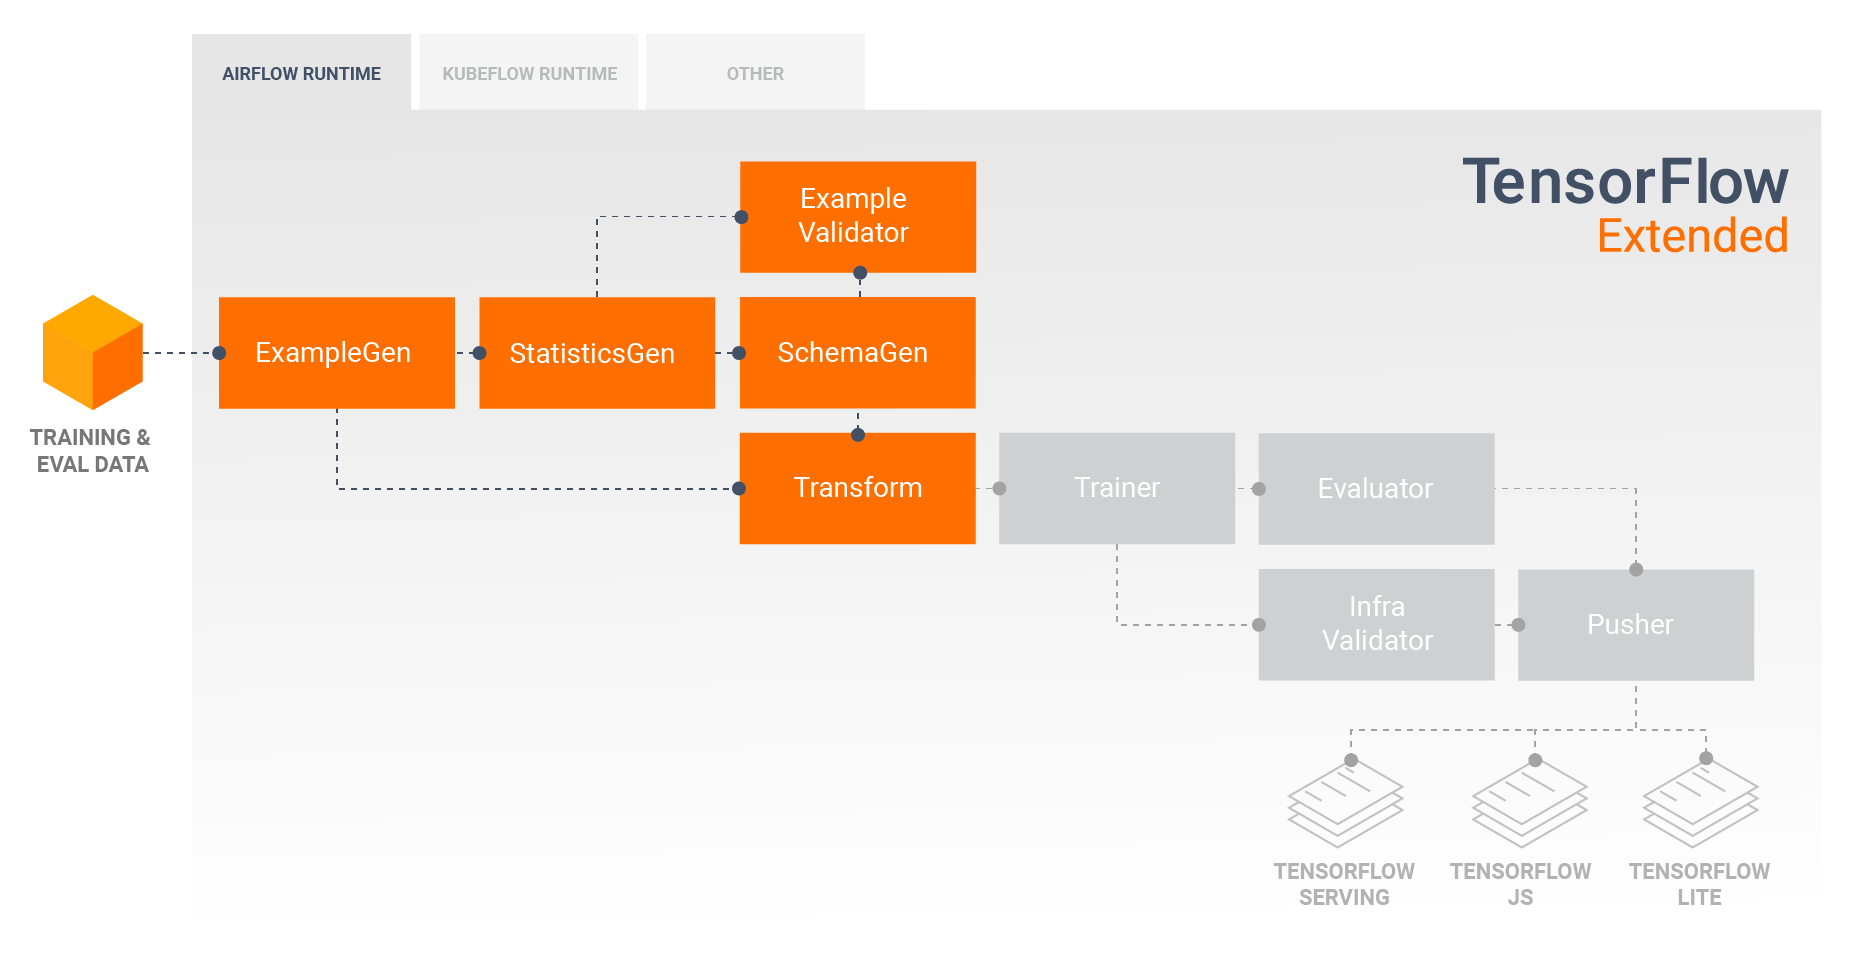
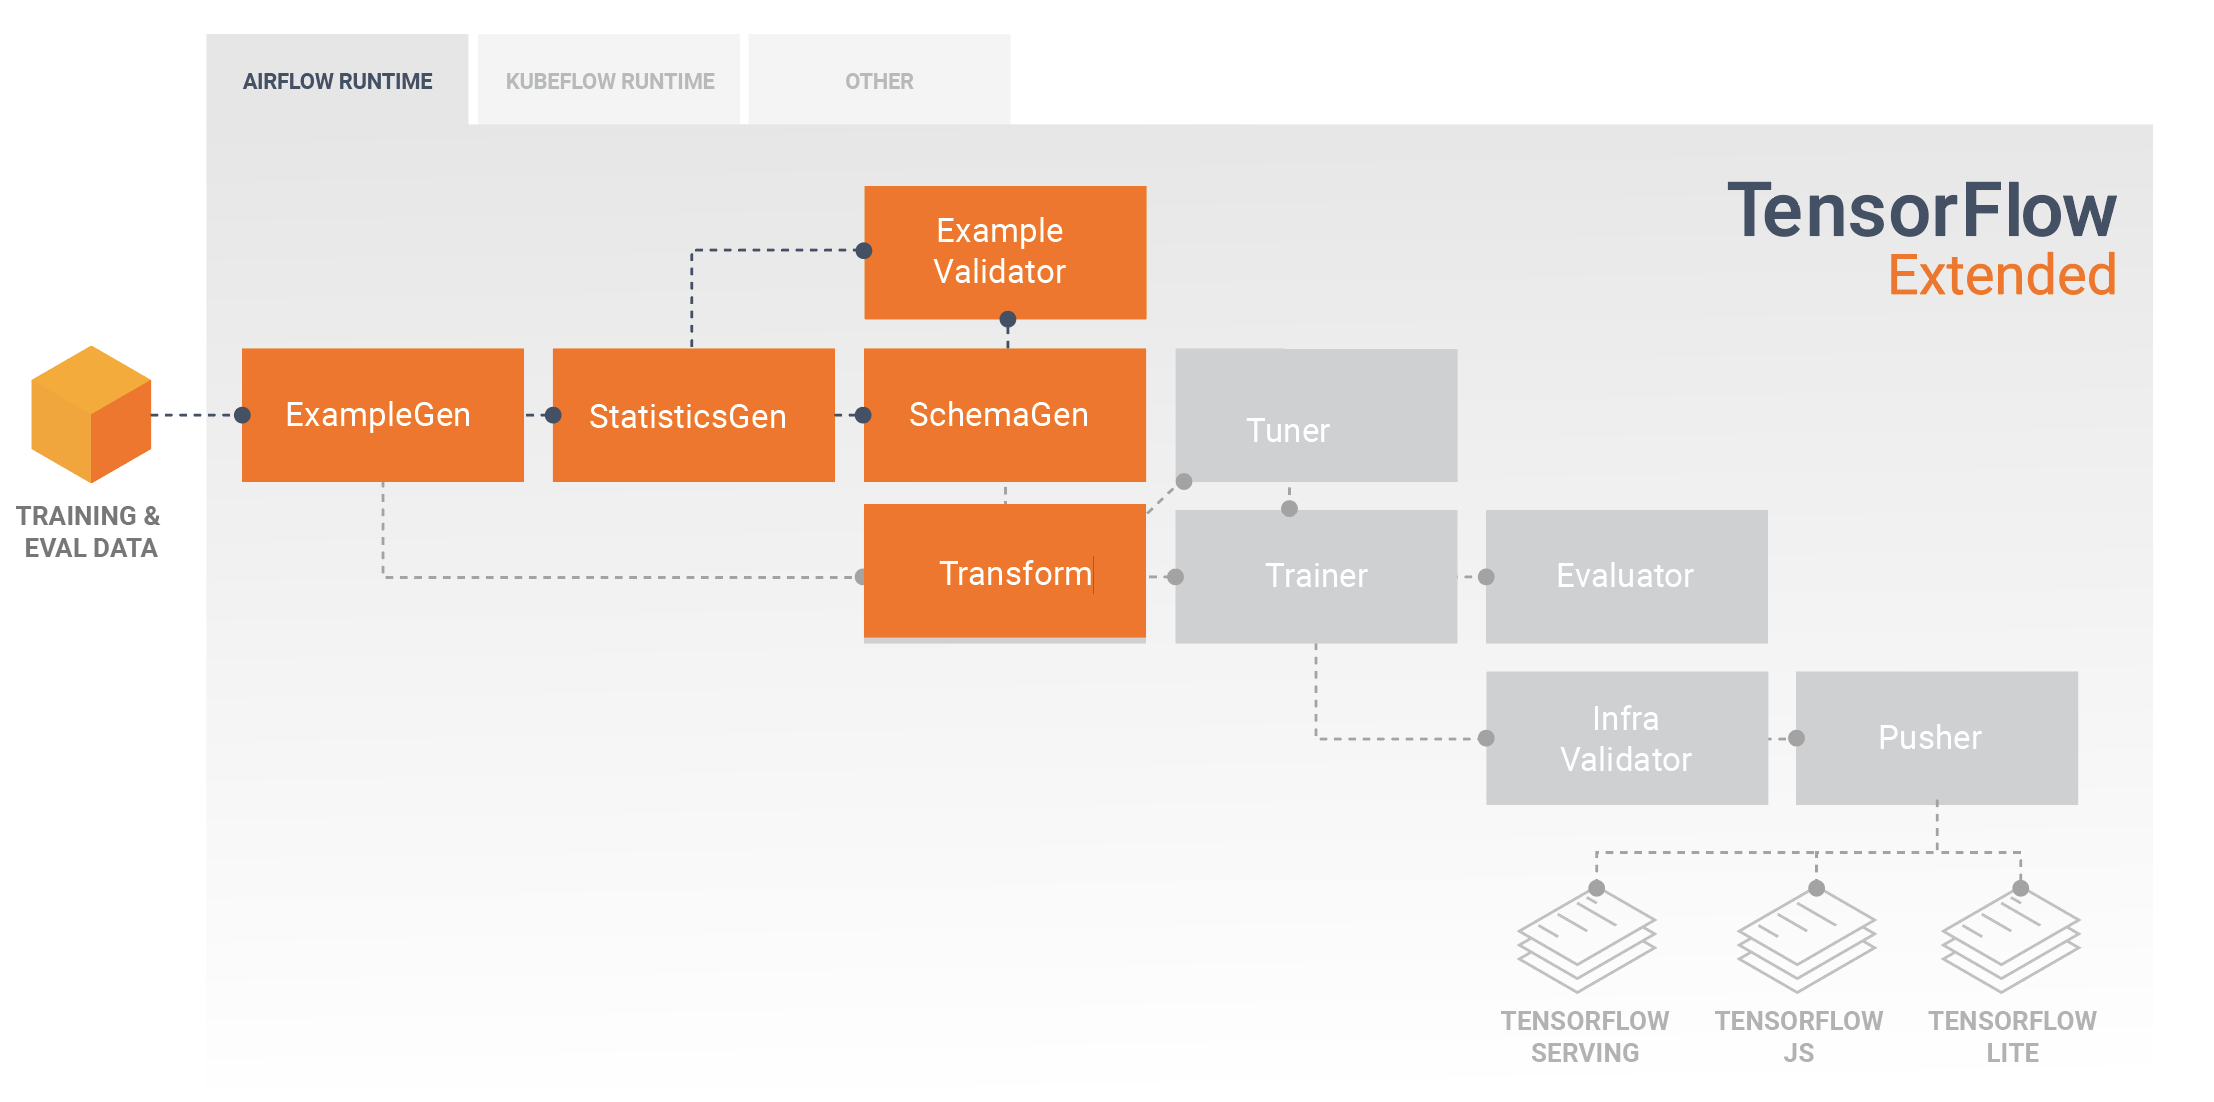
Added Tuner guide
PiperOrigin-RevId: 317187874

diff --git a/docs/guide/tuner.md b/docs/guide/tuner.md
@@ -1,0 +1,122 @@
+# The Tuner TFX Pipeline Component
+
+The Tuner component tunes the hyperparameters for the model.
+
+## Tuner Component and KerasTuner Library
+
+The Tuner component makes extensive use of the Python
+[KerasTuner](https://www.tensorflow.org/tutorials/keras/keras_tuner) API for
+tuning hyperparameters.
+
+Note: The KerasTuner library can be used for hyperparameter tuning regardless of
+the modeling API, not just for Keras models only.
+
+## Component
+
+Tuner takes:
+
+*   tf.Examples used for training and eval.
+*   A user provided module file (or module fn) that defines the tuning logic,
+    including model definition, hyperparameter search space, objective etc.
+*   [Protobuf](https://developers.google.com/protocol-buffers) definition of
+    train args and eval args.
+*   (Optional) [Protobuf](https://developers.google.com/protocol-buffers)
+    definition of tuning args.
+*   (Optional) transform graph produced by an upstream Transform component.
+*   (Optional) A data schema created by a SchemaGen pipeline component and
+    optionally altered by the developer.
+
+With the given data, model, and objective, Tuner tunes the hyperparameters and
+emits the best result.
+
+## Instructions
+
+A user module function `tuner_fn` with the following signature is required for
+Tuner:
+
+```python
+...
+from kerastuner.engine import base_tuner
+
+TunerFnResult = NamedTuple('TunerFnResult', [('tuner', base_tuner.BaseTuner),
+                                             ('fit_kwargs', Dict[Text, Any])])
+
+def tuner_fn(fn_args: FnArgs) -> TunerFnResult:
+  """Build the tuner using the KerasTuner API.
+  Args:
+    fn_args: Holds args as name/value pairs.
+      - working_dir: working dir for tuning.
+      - train_files: List of file paths containing training tf.Example data.
+      - eval_files: List of file paths containing eval tf.Example data.
+      - train_steps: number of train steps.
+      - eval_steps: number of eval steps.
+      - schema_path: optional schema of the input data.
+      - transform_graph_path: optional transform graph produced by TFT.
+  Returns:
+    A namedtuple contains the following:
+      - tuner: A BaseTuner that will be used for tuning.
+      - fit_kwargs: Args to pass to tuner's run_trial function for fitting the
+                    model , e.g., the training and validation dataset. Required
+                    args depend on the above tuner's implementation.
+  """
+  ...
+```
+
+In this function, you define both the model and hyperparameter search spaces,
+and choose the objective and algorithm for tuning. The Tuner component takes
+this module code as input, tunes the hyperparameters, and emits the best result.
+
+Trainer can take Tuner's output hyperparameters as input and utilize them in
+its user module code. The pipeline definition looks like this:
+
+```python
+...
+tuner = Tuner(
+    module_file=module_file,  # Contains `tuner_fn`.
+    examples=transform.outputs['transformed_examples'],
+    transform_graph=transform.outputs['transform_graph'],
+    train_args=trainer_pb2.TrainArgs(num_steps=20),
+    eval_args=trainer_pb2.EvalArgs(num_steps=5))
+
+trainer = Trainer(
+    module_file=module_file,  # Contains `run_fn`.
+    custom_executor_spec=executor_spec.ExecutorClassSpec(GenericExecutor),
+    examples=transform.outputs['transformed_examples'],
+    transform_graph=transform.outputs['transform_graph'],
+    schema=schema_gen.outputs['schema'],
+    # This will be passed to `run_fn`.
+    hyperparameters=tuner.outputs['best_hyperparameters'],
+    train_args=trainer_pb2.TrainArgs(num_steps=100),
+    eval_args=trainer_pb2.EvalArgs(num_steps=5))
+...
+```
+
+You might not want to tune the hyperparameters every time you retrain your
+model. Once you have used Tuner to determine a good set of hyperparameters, you
+can remove Tuner from your pipeline and use `ImporterNode` to import the Tuner
+artifact from a previous training run to feed to Trainer.
+
+```python
+hparams_importer = ImporterNode(
+    instance_name='import_hparams',
+    # This can be Tuner's output file or manually edited file. The file contains
+    # text format of hyperparameters (kerastuner.HyperParameters.get_config())
+    source_uri='path/to/best_hyperparameters.txt',
+    artifact_type=HyperParameters)
+
+trainer = Trainer(
+    ...
+    # An alternative is directly use the tuned hyperparameters in Trainer's user
+    # module code and set hyperparameters to None here.
+    hyperparameters = hparams_importer.outputs['result'])
+```
+
+## Cloud Tuning
+
+WIP
+
+## Links
+
+[E2E Example](https://github.com/tensorflow/tfx/blob/master/tfx/examples/iris/iris_pipeline_native_keras.py)
+
+[Proposal](https://github.com/tensorflow/community/blob/master/rfcs/20200420-tfx-tuner-component.md)

diff --git a/docs/guide/index.md b/docs/guide/index.md
@@ -80,6 +80,8 @@ A TFX pipeline typically includes the following components:
 
 *   [**Trainer**](trainer.md) trains the model.
 
+*   [**Tuner**](tuner.md) tunes the hyperparameters of the model.
+
 *   [**Evaluator**](evaluator.md) performs deep analysis of the training results
     and helps you validate your exported models, ensuring that they are "good
     enough" to be pushed to production.
@@ -139,6 +141,9 @@ TFX libraries include:
     training data and modeling code and creates a SavedModel result. It also
     integrates a feature engineering pipeline created by TensorFlow Transform
     for preprocessing input data.
+
+    [KerasTuner](https://www.tensorflow.org/tutorials/keras/keras_tuner) is used
+    for tuning hyperparameters for model.
 
     Note: TFX supports TensorFlow 1.15 and, with some exceptions, 2.x. For
     details, see [Designing TensorFlow Modeling Code For TFX](train.md).
@@ -416,6 +421,11 @@ tfma.export.export_eval_savedmodel(
         export_dir_base=eval_model_dir,
         eval_input_receiver_fn=receiver_fn)
 ```
+
+An optional [Tuner](tuner.md) component can be added before Trainer to tune the
+hyperparameters (e.g., number of layers) for the model. With the given model and
+hyperparameters' search space, tuning algorithm will find the best
+hyperparameters based on the objective.
 
 ### Analyzing and Understanding Model Performance
 

diff --git a/docs/guide/trainer.md b/docs/guide/trainer.md
@@ -21,6 +21,8 @@ Trainer takes:
     train args and eval args.
 *   (Optional) transform graph produced by an upstream Transform component.
 *   (Optional) pre-trained models used for scenarios such as warmstart.
+*   (Optional) hyperparameters, which will be passed to user module function.
+    Details of the integration with Tuner can be found [here](tuner.md).
 
 Trainer emits: At least one model for inference/serving (typically in SavedModelFormat) and optionally another model for eval (typically an EvalSavedModel).
 
